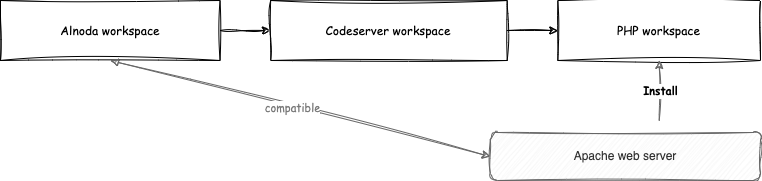
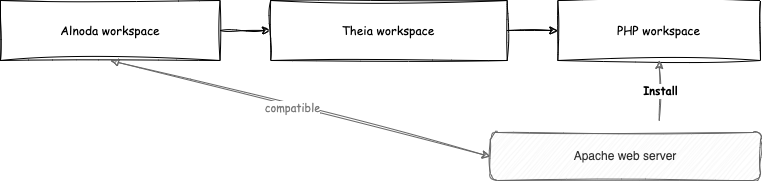
ctd. alnoda hub

Changed region(s): [[0.4226, 0.1381, 0.6037, 0.221]]

diff --git a/mkdocs/docs/alnoda-hub/install-apps.md b/mkdocs/docs/alnoda-hub/install-apps.md
@@ -1,6 +1,7 @@
 # Install Apps
 
-Application from the Alnoda Hub can be installed in your workspace, if the app is compatible with the workspace. 
+Alnoda Hub has many different applications, which you can use to create comprehensive workspace for your specific project. The variety of 
+applications is huge, ranging from CLI tools, TUI applications, applications with WEB UI, services, databases and many more.
 
 !!! info 
     You do not need account in the Alnoda Hub to install applications
@@ -33,13 +34,84 @@ You can install specific version of the application, if it is present. It is pos
 ```
 </div>
 
+If you cannot find the version suitable for you or compatible with your workspace, or if the latest version of the application is just missig, you can add the new version to any application in the Alnoda Hub.
+
 ## Considerations
 
 There are several things to consider when installig a application in your workspace 
 
-- [x] Check out the stallation script if application is created by someone else. Most of the installation scripts are relatively small - betweenn 5 annd 20 commands, so it is not a hard task. 
-- [x] Install a particular version of the application. Anyone can add a version to your app, hece specify the version explicitly, donn't rely on the lates added version.
-- [x] Back up workspace before installing applicatio created by someone else or compatibility is doubtful. Backinng up a workspace is merely a single command, so it's worse it! 
-- [x] It is not possible to uninstall an app inn the workspace. Better back up workspace before trying new application. 
+- [x] Check out the stallation script if application is created by someone else. Most of the installation scripts are relatively small - between 5 and 20 commands, so it is not a hard task. 
+- [x] Install a particular version of the application. Anyone can add a version to your app, hece specify the version explicitly, don't rely on the lates added version.
+- [x] Back up workspace before installing applicatio created by someone else or compatibility is doubtful. Backing up a workspace is merely a single command, so it's worse it! 
+- [x] It is not possible to uninstall an app in the workspace. Better back up workspace before trying new application. 
+- [x] There is a limit of 10 applications with WEB UI that can be installed in a single workspace. 
 
-Installation might not actually work! Alnoda applications are just a sequence of commannnds that download binaries, packages, repositories and then configure, build and install applications. But packages are moved, repositories rennamed, binary releases deleted. With time the chance of successful app installation dimisishes, and new version of the app might be required.
+Installation might not actually work! Alnoda applications are just a sequence of commands that download binaries, packages, repositories and then configure, build and install applications. But packages are moved, repositories renamed, binary releases deleted. With time the chance of successful app installation dimisishes, and new version of the app might be required.
+
+!!! hint 
+    If isntallation script is outdated, and the app canot be installed anymore, you are welcome to add a new version with the updated and 
+    corrected installation and configuration script. You can add a new version to any app in the Alnoda Hub.
+
+## Application limits 
+
+There are different kinds of applications, some of them called using the command line in the workspace terminal, other must run as background service for you to interact with them. The example of such applications are for example databases. Most applications with WEB UI also run a service. 
+
+You don't need to start all the service applications manually, they all start automatically when workspace is started or restarted. Because _workspace_ is a collection of applictions for a specific project or task, workspace is not a replacement for an entive desktop.  
+
+Because all service applications are running all the time i the workspace, it might become resource-consuming if there are too many applications running. This means that it is necessary to plan what to install in every workspace, and install the most needed applications first. 
+
+Workspaces have a limit for a number of applications that have UI - 12 applications which can be installed. You can also use 3 more ports to run your own applications.  
+
+## Workspace compatibility 
+
+Applications can have compatibility or incompatibility with different workspaces. Compatibilities can be set by the person who added the app, or the one who created a workspace, or anyone else who notices compatibility or incompatibility between app and workspace can update such a compatibility. 
+
+If during the app installation you see incompatibility warning, you can ignore it and cotinue installation. 
+
+![app-wrk-incompat.jpg](./img/app-wrk-incompat.jpg)
+
+Incompatibility warning does not necessarily mean that app is incompatible with the workspace. It is possible that compatibility between this app and this workspace was simply not set. You can ignore the warning, install it in the workspace and check out if it works. 
+
+!!! info
+    Incompatibility warning does not necessarily mean that app is incompatible with the workspace. 
+
+By default app the compatibility warning will appear if the compatibility is not set with this workspace. But if you see that the compatibility with the workspace is set, but with another version - then it likely to incompatible, except the cases when the nobody has updated compatibility of this app with the new workspace version. You can still try to install the app, but back up workspace first. It is also possible to explicitly set incompatibility of the app with the workspace versions. In this case the app is clearly incompatible.   
+
+Whether the compatibility between the app and the workspace is defined you can see down below on the app page. 
+
+![app-wrk-compat.jpg](./img/app-wrk-compat.jpg)
+
+Because workspaces can be built from each other, it is not necessary to set compatibility of an app with all the possible workspaces. It is enough 
+to have compatibility with a single workspace in the lieage of the given workspace. You can see the workspace lineage on the Workspace UI _About tab_. 
+
+## App compatibility 
+
+Usually apps are compatible with each other, and if the installation script is done right, apps will not affect each other. This is achieved by using 
+virtual environments and tools like _nodeenv_ or _pipx_. Nevertheless, it is also possible that apps become incompatible with each other. 
+
+!!! hint
+    If you notice incompatible apps, you are free to update the app page and mark incompatibility. 
+
+It is more common to see when one app requires another. In general it is then better to stop installation and install the reqiuired application first. 
+
+## Restart workspace
+
+It is often necessary to restart the workspace or reload the terminal window after the installation of the application. This is necessary to activate environmental variables, set aliases and start daemon services. You will see the notification if it is necessary to restart the workspace, and reload terminal window every time you install any app. 
+
+![app-install-output.png](./img/app-install-output.png)
+
+If inn the output of the `wrk install` there is a warning that workspace restart is required, the application will not be started immediately after the `wrk install` finishes, even if the shortcut appears in the Wokspace UI. You do need to restart the workspace. Save your work and restart workspace with the command `wrk kill`.  
+
+!!! warning
+    All applications that run as a service or have UI do require restart of the workspace.
+
+Even if the restart of the application is not required, you should reload the terminal either with ++ctrl+d++ or simply reloading the browser window.
+
+## Workspace meta 
+
+Workspace keeps trak of the apps installed from the Alnoda Hub. 
+
+## Apps and services 
+
+## Uninstall app
+

diff --git a/mkdocs/docs/alnoda-hub/alnoda-app.md b/mkdocs/docs/alnoda-hub/alnoda-app.md
@@ -45,24 +45,38 @@ To add another version to the Alnoda app (created by you or anyone else) click b
 
 ## Workspace Compatibility
 
+On the app page you can find information about compatibility with the workspaces. This compatibility information can help to know if application can 
+freely be installed in the workspace. If you try to install application which is not defined to be compatible with your workspace, you will see a warning. 
+
+If the application compatibility with some workspace is not set, it does not mean that it is incompatible. It is possible that the information is simply has not been updated yet. 
+
+![rabbit-wrk-compat.jpg](./img/rabbit-wrk-compat.jpg)
+
 Apps can be compatible or incompatible with different workspaces. Such compatibility is optional and serves informational purpose only. 
 No matter if app is compatible or incompatible with a given workspace, you can ignore the warning and install anyway. 
 
 !!! info 
     You can ignore compatibility warning and install app in your workspace anyway. 
 
+!!! hint 
+    If you see the compatibility warning, but still want to continue, it is a good idea to stop installation and back up the workspace prior to installing the app.
+
 If you notice compatibility or incompatibility of an app with some workspace, you can update app compatibility with the relevant information, which will help your later if you want to install it in a similar workspace. 
 
 !!! info 
     You can update compatibility of a app with aother workspace even if you haven't created neither of them. 
 
-Because workspaces can be built from each other, it is not necessary to establish compatibility of an app with all the workspaces. It is enough 
-to have compatibility with a single workspace in the legacy of the given workspace. 
+Because workspaces can be built from each other, it is not necessary to set compatibility of an app with all the possible workspaces. It is enough 
+to have compatibility with a single workspace in the lieage of the given workspace. You can see the workspace lineage on the Workspace UI _About tab_ 
 
-For example, _php workspace_ is built from _codeserver workspace_ and the latter is built from the _alnoda worksapce_. Application _Apache2_ (popular web server) is compatible with _aloda workspace_, which means it becomes implicitly compatible with both _php workspace_ and _codeserver workspace_.
+![wrk-lineage.jpg](./img/wrk-lineage.jpg)
+
+For example, _php workspace_ is built from _Theia workspace_ and the latter is built from the _alnoda worksapce_. Application _Apache2_ (popular web server) is compatible with _aloda workspace_, which means it becomes implicitly compatible with both _php workspace_ and _codeserver workspace_.
 
 ![app-wrk-compatibility.png](./img/app-wrk-compatibility.png)
 
 ## App Compatibility
 
-App compatibility is also optional, same as workspace compatibility. It is a mean to track compatibilities, incompatibilities or requirements between different applications and their versions. If you notice incompatibility between applicationns which is missing in the Alnoda Hub, you can as well add it to the applicaion, eve if it is not yours app. This will help you to remember if you try to install this app in the other workspaces. 
+App compatibility is also optional, much like workspace compatibility. It is a mean to track compatibilities, incompatibilities or requirements between different applications and their versions. 
+
+If you notice incompatibility between applicationns which is missing in the Alnoda Hub, you can as well add it to the applicaion, eve if it is not yours app. This will help you to remember if you try to install this app in the other workspaces. 
